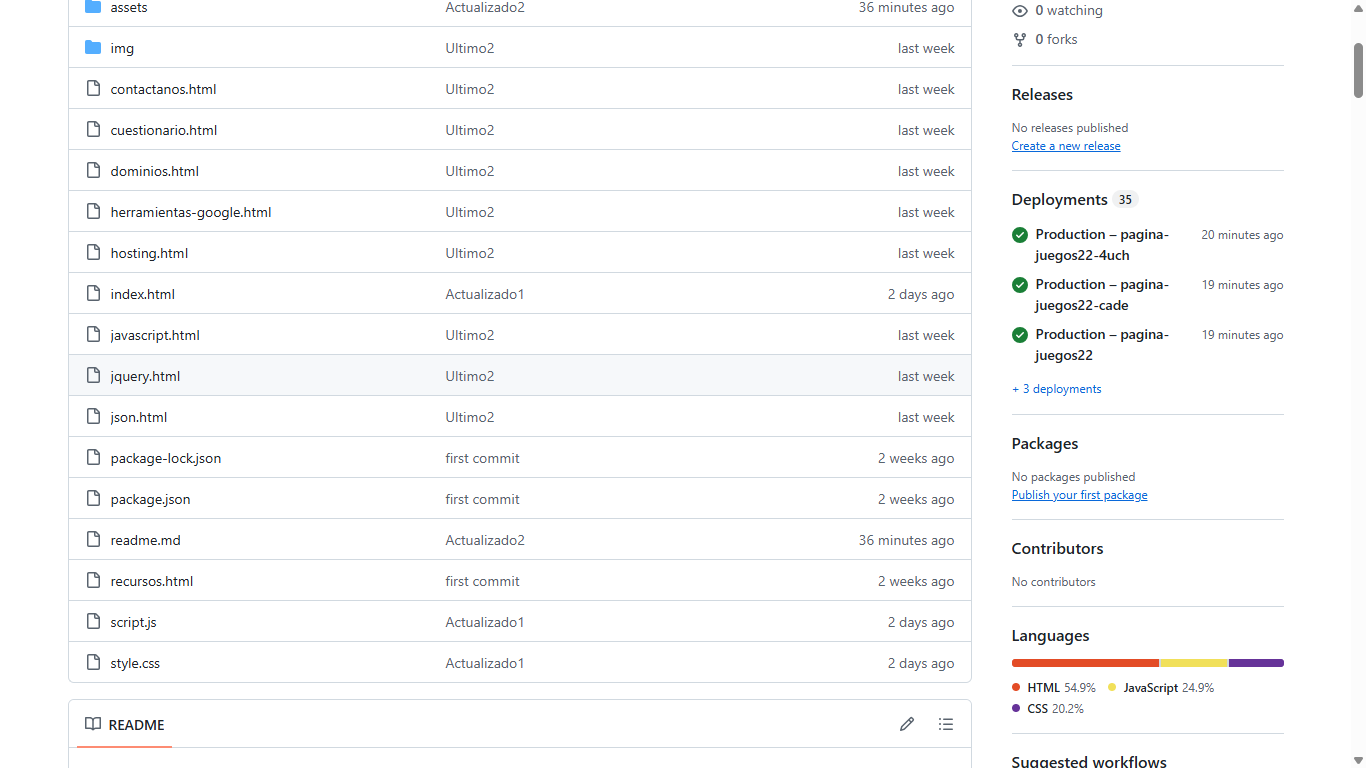
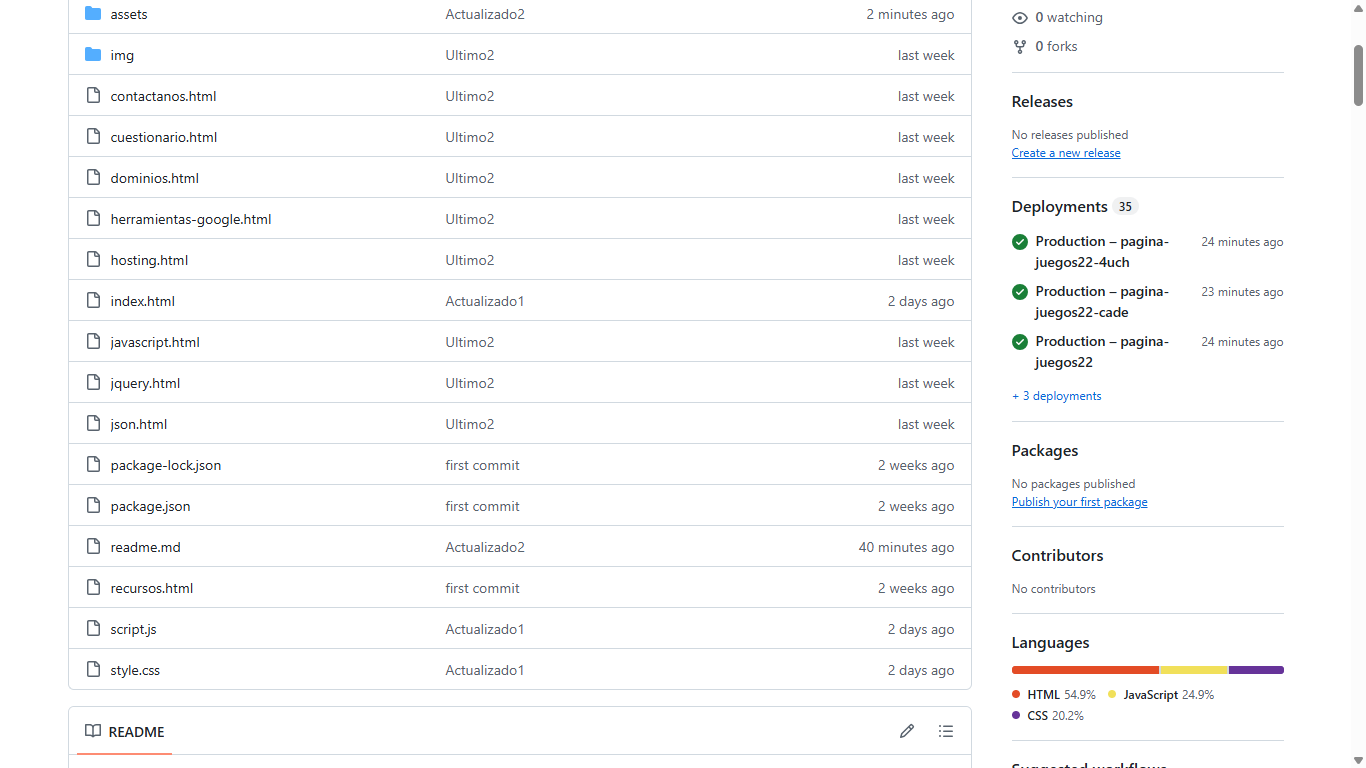
Actualizado2

diff --git a/readme.md b/readme.md
@@ -134,8 +134,8 @@ Funcionamiento técnico:
 🟢 Anexo 5: Estructura del Repositorio en GitHub
 
 ### Repositorio
-![Repositorio](assets/Estructura1.png)
-![Repositorio](assets/Estructura2.png)
+![Repositorio](assets/e1.png)
+![Repositorio](assets/e2.png)
 
 ---
 
